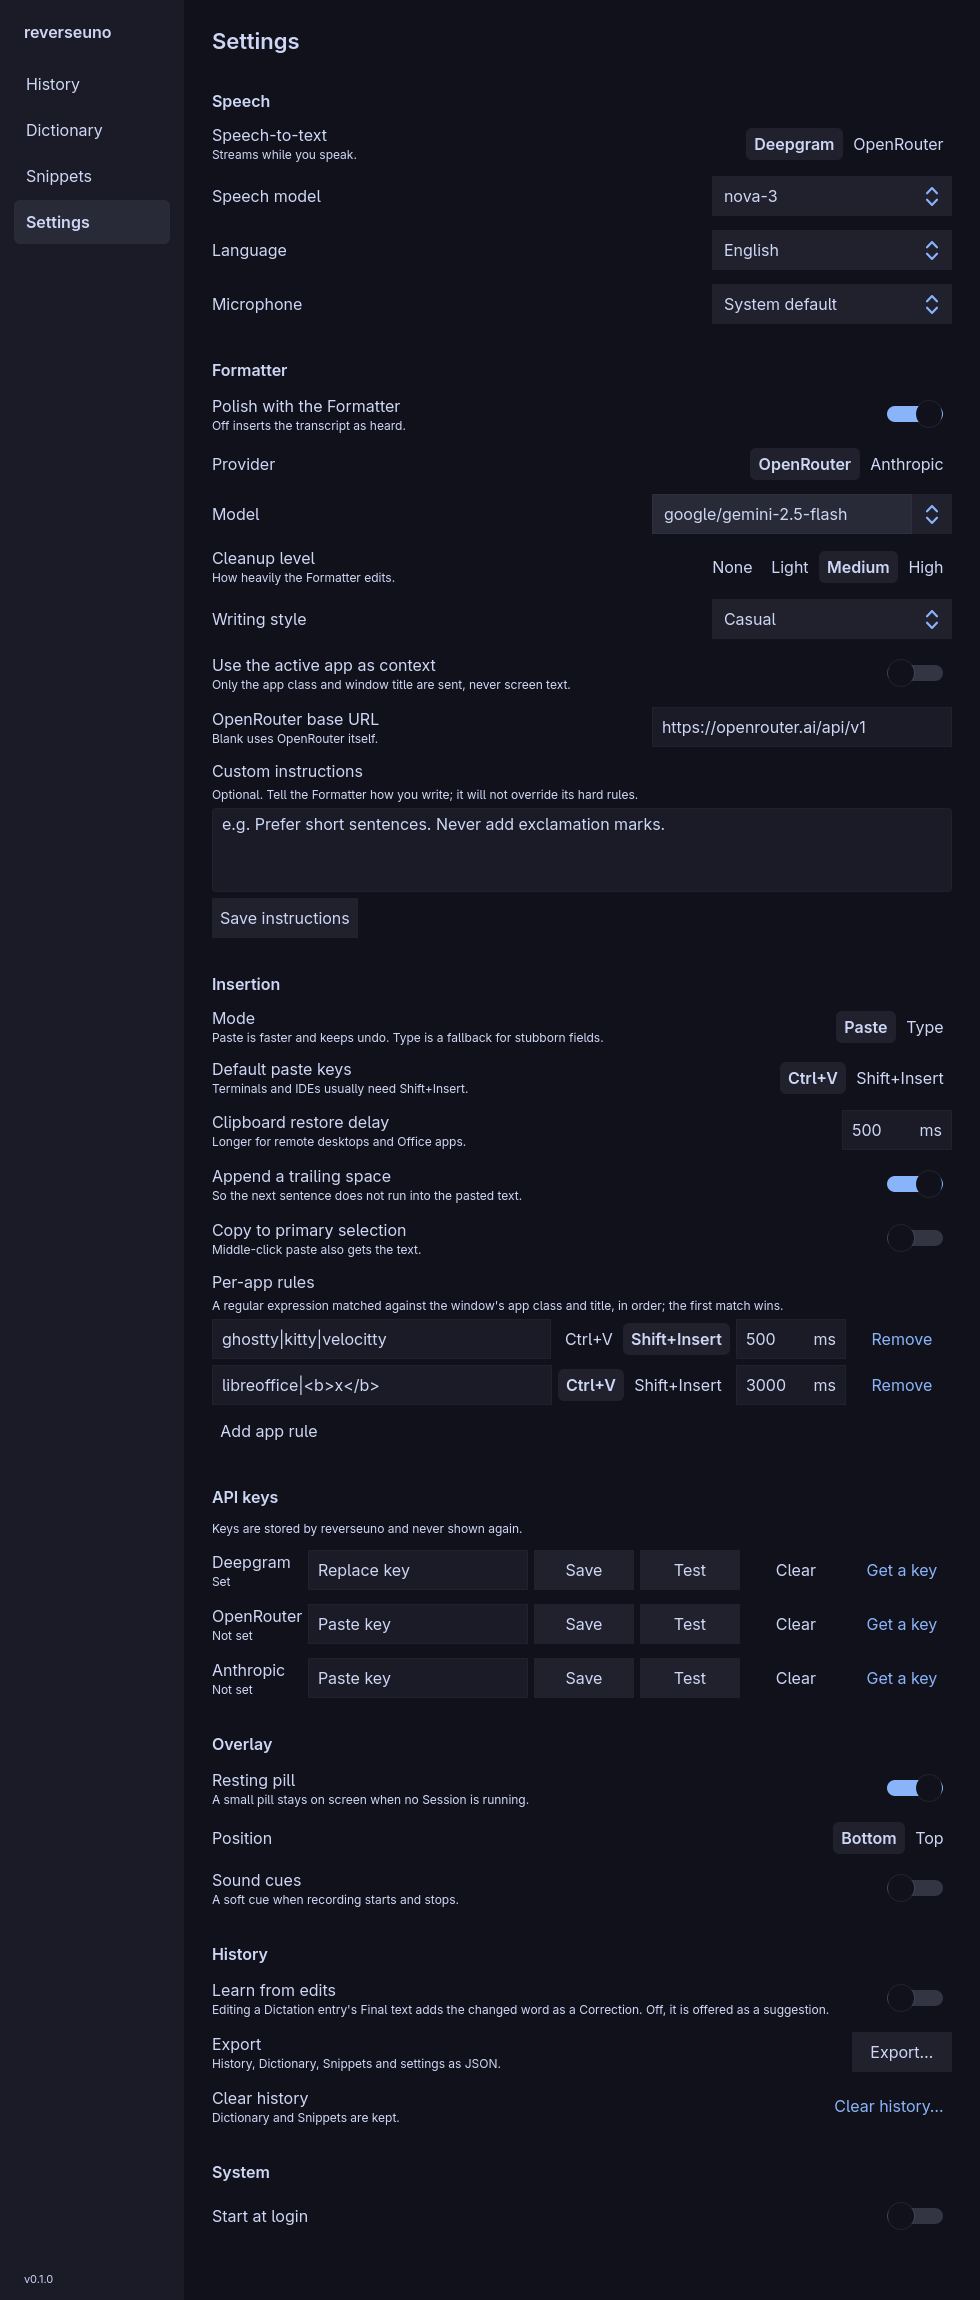
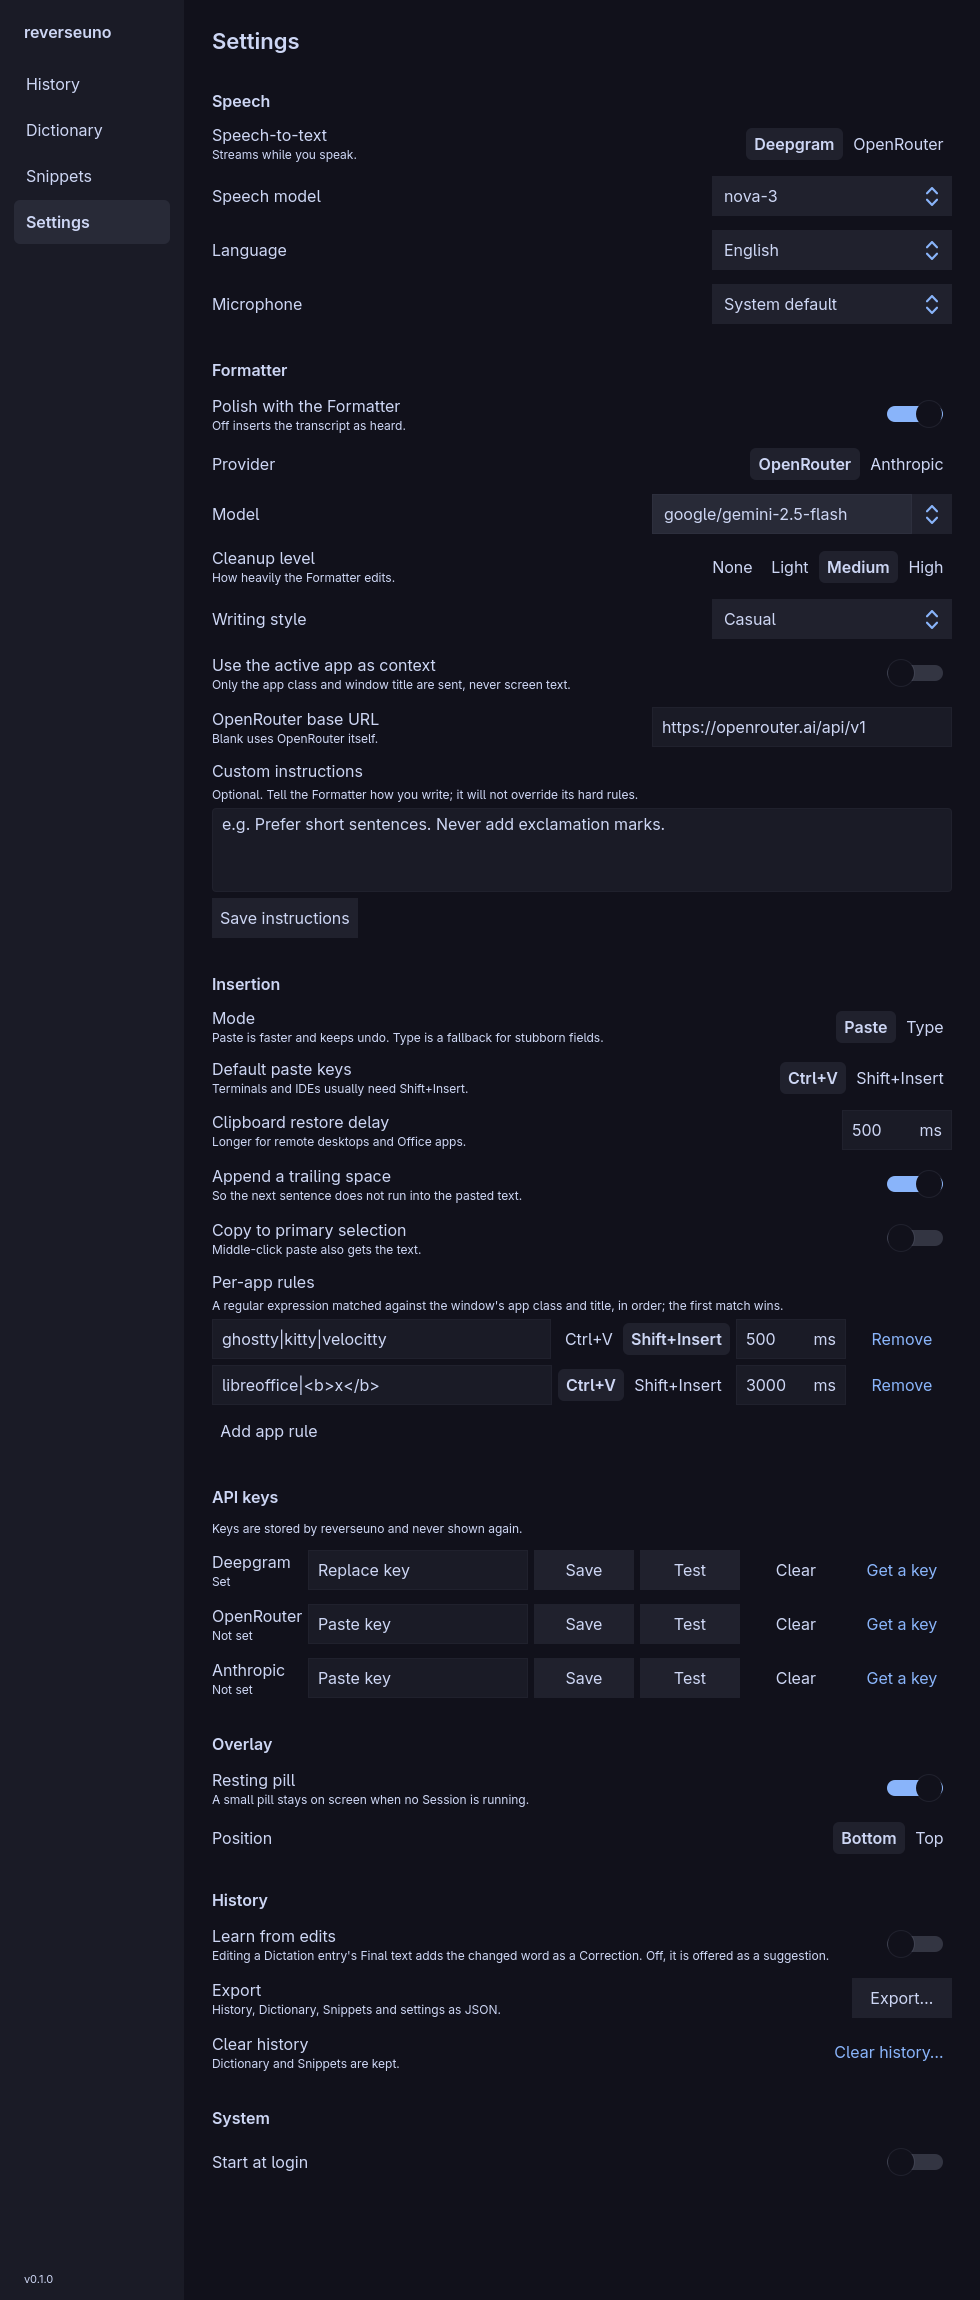
fix(qt): drop the Sound cues toggle; nothing plays the cues any more
The engine keeps the stored overlay.sounds value; README and SPEC say the Qt
windows play no cues and offer no control. Settings screenshot re-rendered;
test counts follow the branch (116 engine, 33 Qt).

Changed region(s): [[0.2143, 0.8026, 0.398, 0.957], [0.8878, 0.8026, 0.949, 0.8952], [0.9184, 0.9261, 0.949, 0.9878]]

diff --git a/qt/qml/SettingsPage.qml b/qt/qml/SettingsPage.qml
@@ -352,11 +352,6 @@ Item {
                     options: [{ value: "bottom", label: "Bottom" }, { value: "top", label: "Top" }]
                 }
             }
-            SettingRow {
-                label: "Sound cues"
-                hint: "A soft cue when recording starts and stops."
-                Toggle { path: "overlay.sounds"; saved: !!page.ovl.sounds }
-            }
 
             Heading { text: "History" }
             SettingRow {

diff --git a/qt/tests/tst_history.cpp b/qt/tests/tst_history.cpp
@@ -310,7 +310,7 @@ private slots:
                                                QVariantMap{{"pattern", "ghostty|kitty|velocitty"}, {"keys", "shift-insert"}},
                                                QVariantMap{{"pattern", "libreoffice|<b>x</b>"}, {"keys", "ctrl-v"},
                                                            {"restoreDelayMs", 3000}}}}}},
-                    {"overlay", QVariantMap{{"showAtRest", true}, {"position", "bottom"}, {"sounds", false}}}}},
+                    {"overlay", QVariantMap{{"showAtRest", true}, {"position", "bottom"}}}}},
                 {"dictionary", QVariantList{QVariantMap{{"id", "d1"}, {"word", "nodaysidle"}, {"starred", true}},
                                             QVariantMap{{"id", "d2"}, {"word", "hyper land"}, {"correction", "Hyprland"}}}},
                 {"snippets", QVariantList{QVariantMap{{"id", "s1"}, {"trigger", "my calendar link"},

diff --git a/README.md b/README.md
@@ -10,7 +10,7 @@
     <img src="https://img.shields.io/badge/Electron-44-47848F?style=flat-square&logo=electron&logoColor=white" alt="Electron 44">
     <img src="https://img.shields.io/badge/Qt%20Quick-6-41CD52?style=flat-square&logo=qt&logoColor=white" alt="Qt Quick 6">
     <img src="https://img.shields.io/badge/TypeScript-strict-3178C6?style=flat-square&logo=typescript&logoColor=white" alt="TypeScript strict">
-    <img src="https://img.shields.io/badge/tests-114%20engine%20%2B%2032%20Qt-4c8c6b?style=flat-square" alt="114 engine and 32 Qt tests passing">
+    <img src="https://img.shields.io/badge/tests-116%20engine%20%2B%2033%20Qt-4c8c6b?style=flat-square" alt="116 engine and 33 Qt tests passing">
     <img src="https://img.shields.io/badge/telemetry-none-4c8c6b?style=flat-square" alt="No telemetry">
     <img src="https://img.shields.io/badge/version-0.1.0-8e8e96?style=flat-square" alt="Version 0.1.0">
   </p>
@@ -200,9 +200,9 @@ Qt app first if it is not running. Each call is logged to
 ## Testing
 
 ```bash
-npm test                              # 114 engine tests (vitest)
+npm test                              # 116 engine tests (vitest)
 npm run typecheck
-(cd qt && make check)                 # 5 Qt suites, 32 tests, offscreen
+(cd qt && make check)                 # 5 Qt suites, 33 tests, offscreen
 npm run test:e2e                      # fake mic → STT → format → target window, with a focus steal
 E2E_STT=openrouter npm run test:e2e   # the same run through OpenRouter transcription
 ```
@@ -258,7 +258,8 @@ minute). It looks for `REVERSEUNO_UI`, then `<app>/qt/reverseuno-ui`, then
 
 - **Hyprland only.** No X11, GNOME or KDE shortcut path; the Overlay needs a
   layer-shell compositor.
-- No start/stop sound cues yet in the Qt Overlay (the `overlay.sounds` setting is kept).
+- No start/stop sound cues: the Qt windows play none and have no control for them; a
+  stored `overlay.sounds` value is ignored.
 - **Cloud only** by design: no offline Whisper.
 - No paste verification (Linux would need AT-SPI). A failed paste is recorded in
   history but not retried.

diff --git a/SPEC.md b/SPEC.md
@@ -324,7 +324,7 @@ Hub (window title and app id `reverseuno`, 980×660, minimum 760×480):
   provider, model, cleanup level, writing style, app context, OpenRouter base URL,
   custom instructions), Insertion (mode, default keys, restore delay, trailing space,
   primary selection, per-app rules), API keys (save, test, clear; never shown again),
-  Overlay (Resting pill, position, sound cues), History (learn from edits, export,
+  Overlay (Resting pill, position), History (learn from edits, export,
   clear), System (start at login).
 - No stats, streaks or charts.
 - Engine down: an offline banner while it retries.
@@ -339,7 +339,8 @@ interactivity none):
 - Shown, placed and hidden by the engine (`overlay` events; §9); done hides after
   `overlay.hideAfterMs`, errors after `overlay.errorHideAfterMs`.
 - Resting pill (`overlay.showAtRest`): “Hold Right Super to talk”.
-- Start/stop sound cues (`overlay.sounds`) are not played by the Qt Overlay yet.
+- No start/stop sound cues: the Qt windows play none and offer no control; a stored
+  `overlay.sounds` value is kept by the engine but ignored.
 
 Tray (`Qt.labs.platform` status notifier): state, start/stop (toggles; the session
 pastes), open the Hub, quit (quits the engine too).
@@ -354,7 +355,7 @@ text, never as markup.
 ## 11. Acceptance checks
 
 - `npx tsc --noEmit` passes.
-- `npm test` passes (114 tests); `cd qt && make check` passes (5 suites, 32 tests,
+- `npm test` passes (116 tests); `cd qt && make check` passes (5 suites, 33 tests,
   offscreen).
 - `npm run test:e2e` proves known audio → formatted text → target textarea +
   clipboard restore + history/timings.
